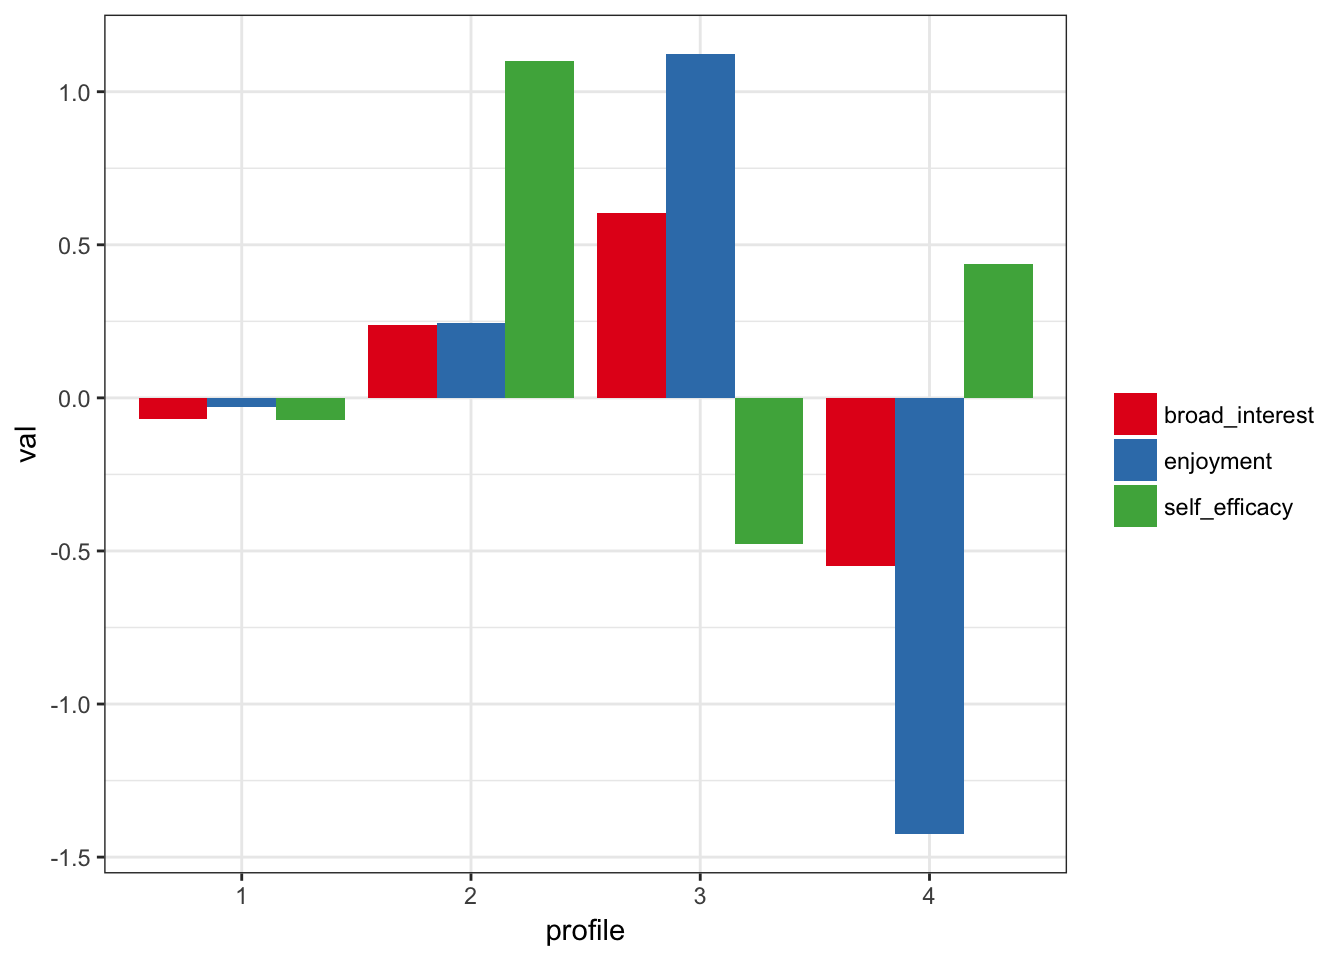
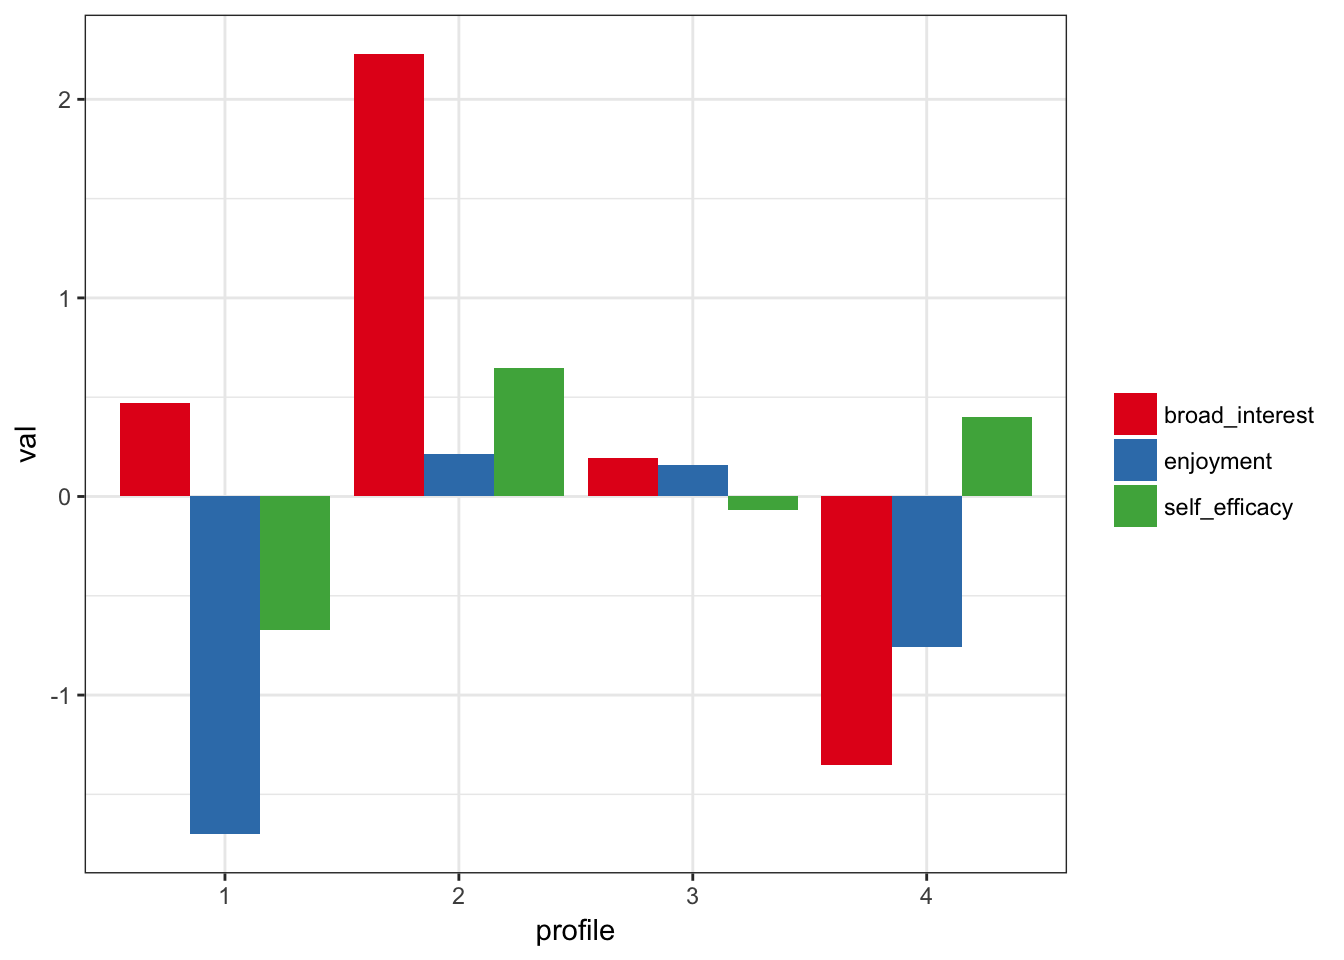
update vignette

diff --git a/docs/articles/Introduction_to_tidyLPA.html b/docs/articles/Introduction_to_tidyLPA.html
@@ -103,65 +103,65 @@ d &lt;-<span class="st"> </span>pisaUSA15
 d &lt;-<span class="st"> </span><span class="kw">sample_n</span>(pisaUSA15, <span class="dv">500</span>)
 <span class="kw"><a href="../reference/create_profiles_lpa.html">create_profiles_lpa</a></span>(d, broad_interest, enjoyment, self_efficacy, <span class="dt">n_profiles =</span> <span class="dv">4</span>, <span class="dt">model =</span> <span class="dv">2</span>)
 <span class="co">#&gt; Fit varying means, equal variances and covariances (Model 2) model with 4 profiles.</span>
-<span class="co">#&gt; AIC is 2841</span>
-<span class="co">#&gt; BIC is 2928.207</span>
-<span class="co">#&gt; ICL is 3181.227</span>
-<span class="co">#&gt; Entropy is 0.78216</span>
-<span class="co">#&gt; # A tibble: 470 x 5</span>
+<span class="co">#&gt; AIC is 2773.575</span>
+<span class="co">#&gt; BIC is 2860.603</span>
+<span class="co">#&gt; ICL is 2925.995</span>
+<span class="co">#&gt; Entropy is 0.93932</span>
+<span class="co">#&gt; # A tibble: 466 x 5</span>
 <span class="co">#&gt;    broad_interest enjoyment self_efficacy profile posterior_prob</span>
 <span class="co">#&gt;             &lt;dbl&gt;     &lt;dbl&gt;         &lt;dbl&gt;   &lt;dbl&gt;          &lt;dbl&gt;</span>
-<span class="co">#&gt;  1            2.8       3.0      2.250000       1        0.69042</span>
-<span class="co">#&gt;  2            1.8       3.2      2.857143       2        0.41395</span>
-<span class="co">#&gt;  3            3.2       3.4      2.000000       1        0.43775</span>
-<span class="co">#&gt;  4            3.0       3.0      1.750000       1        0.80829</span>
-<span class="co">#&gt;  5            3.0       3.0      2.000000       1        0.75569</span>
-<span class="co">#&gt;  6            3.2       4.0      1.750000       3        0.98540</span>
-<span class="co">#&gt;  7            4.0       3.0      2.000000       1        0.73260</span>
-<span class="co">#&gt;  8            3.0       2.4      1.750000       1        0.89808</span>
-<span class="co">#&gt;  9            3.8       3.0      2.125000       1        0.70047</span>
-<span class="co">#&gt; 10            3.4       3.4      1.375000       1        0.46678</span>
-<span class="co">#&gt; # ... with 460 more rows</span></code></pre></div>
+<span class="co">#&gt;  1            3.2       2.8      1.000000       3        0.99538</span>
+<span class="co">#&gt;  2            2.8       3.0      1.714286       3        0.99072</span>
+<span class="co">#&gt;  3            3.6       4.0      1.375000       3        0.99989</span>
+<span class="co">#&gt;  4            3.0       2.8      2.000000       3        0.99661</span>
+<span class="co">#&gt;  5            2.8       3.0      2.250000       3        0.99356</span>
+<span class="co">#&gt;  6            2.4       3.0      2.125000       3        0.95161</span>
+<span class="co">#&gt;  7            3.6       2.4      2.000000       3        0.99066</span>
+<span class="co">#&gt;  8            2.6       2.0      2.500000       3        0.96862</span>
+<span class="co">#&gt;  9            4.0       3.4      1.500000       3        0.99823</span>
+<span class="co">#&gt; 10            3.2       3.2      3.000000       3        0.99925</span>
+<span class="co">#&gt; # ... with 456 more rows</span></code></pre></div>
 <p>**Note that if you get the warning “Some profiles are associated with no assignments. Interpret this solution with caution and consider other models”, then this is a sign that a simpler model (with fewer profiles) likely fits better.</p>
 <p>You can see the output is simply the same <code>tibble</code> that is input as the first function to <code>create_profiles_LPA</code>, but modified so that the classification and posterior probability of the classification are added (and incomplete cases with respect to the variables used to estimate the profiles removed).</p>
 <p>We can then plot this output using the <code><a href="../reference/plot_profiles_lpa.html">plot_profiles_lpa()</a></code> function and the pipe (<code>%&gt;%</code>) from the <code>dplyr</code> package:</p>
 <div class="sourceCode"><pre class="sourceCode r"><code class="sourceCode r"><span class="kw"><a href="../reference/create_profiles_lpa.html">create_profiles_lpa</a></span>(d, broad_interest, enjoyment, self_efficacy, <span class="dt">n_profiles =</span> <span class="dv">4</span>, <span class="dt">model =</span> <span class="dv">2</span>) <span class="op">%&gt;%</span><span class="st"> </span>
 <span class="st">    </span><span class="kw"><a href="../reference/plot_profiles_lpa.html">plot_profiles_lpa</a></span>()
 <span class="co">#&gt; Fit varying means, equal variances and covariances (Model 2) model with 4 profiles.</span>
-<span class="co">#&gt; AIC is 2841</span>
-<span class="co">#&gt; BIC is 2928.207</span>
-<span class="co">#&gt; ICL is 3181.227</span>
-<span class="co">#&gt; Entropy is 0.78216</span></code></pre></div>
+<span class="co">#&gt; AIC is 2773.575</span>
+<span class="co">#&gt; BIC is 2860.603</span>
+<span class="co">#&gt; ICL is 2925.995</span>
+<span class="co">#&gt; Entropy is 0.93932</span></code></pre></div>
 <p><img src="Introduction_to_tidyLPA_files/figure-html/unnamed-chunk-6-1.png" width="672"></p>
 <p>Below is identical to the two lines of code above, except that instead of using the pipe, we save the output the object <code>m3</code>, and then call the <code><a href="../reference/plot_profiles_lpa.html">plot_profiles_lpa()</a></code> function on the output that it points to.</p>
 <div class="sourceCode"><pre class="sourceCode r"><code class="sourceCode r">m3 &lt;-<span class="st"> </span><span class="kw"><a href="../reference/create_profiles_lpa.html">create_profiles_lpa</a></span>(d, broad_interest, enjoyment, self_efficacy, <span class="dt">n_profiles =</span> <span class="dv">4</span>, <span class="dt">model =</span> <span class="dv">2</span>)
 <span class="co">#&gt; Fit varying means, equal variances and covariances (Model 2) model with 4 profiles.</span>
-<span class="co">#&gt; AIC is 2841</span>
-<span class="co">#&gt; BIC is 2928.207</span>
-<span class="co">#&gt; ICL is 3181.227</span>
-<span class="co">#&gt; Entropy is 0.78216</span>
+<span class="co">#&gt; AIC is 2773.575</span>
+<span class="co">#&gt; BIC is 2860.603</span>
+<span class="co">#&gt; ICL is 2925.995</span>
+<span class="co">#&gt; Entropy is 0.93932</span>
 <span class="kw"><a href="../reference/plot_profiles_lpa.html">plot_profiles_lpa</a></span>(m3, <span class="dt">to_center =</span> <span class="ot">TRUE</span>)</code></pre></div>
 <p><img src="Introduction_to_tidyLPA_files/figure-html/unnamed-chunk-7-1.png" width="672"></p>
 <p>We can also return all of the data. This returns a <code>tibble</code> with all of the variables in the original data, in this case <code>d</code>, so that subsequent analyses using variables that are not used to create the profile can be easily carried out.</p>
 <div class="sourceCode"><pre class="sourceCode r"><code class="sourceCode r"><span class="kw"><a href="../reference/create_profiles_lpa.html">create_profiles_lpa</a></span>(d, broad_interest, enjoyment, self_efficacy, <span class="dt">n_profiles =</span> <span class="dv">4</span>, <span class="dt">model =</span> <span class="dv">2</span>, <span class="dt">return_orig_df =</span> T)
 <span class="co">#&gt; Fit varying means, equal variances and covariances (Model 2) model with 4 profiles.</span>
-<span class="co">#&gt; AIC is 2841</span>
-<span class="co">#&gt; BIC is 2928.207</span>
-<span class="co">#&gt; ICL is 3181.227</span>
-<span class="co">#&gt; Entropy is 0.78216</span>
-<span class="co">#&gt; # A tibble: 470 x 6</span>
+<span class="co">#&gt; AIC is 2773.575</span>
+<span class="co">#&gt; BIC is 2860.603</span>
+<span class="co">#&gt; ICL is 2925.995</span>
+<span class="co">#&gt; Entropy is 0.93932</span>
+<span class="co">#&gt; # A tibble: 466 x 6</span>
 <span class="co">#&gt;    broad_interest enjoyment instrumental_mot self_efficacy profile</span>
 <span class="co">#&gt;             &lt;dbl&gt;     &lt;dbl&gt;            &lt;dbl&gt;         &lt;dbl&gt;   &lt;dbl&gt;</span>
-<span class="co">#&gt;  1            2.8       3.0             1.25      2.250000       1</span>
-<span class="co">#&gt;  2            1.8       3.2             2.00      2.857143       2</span>
-<span class="co">#&gt;  3            3.2       3.4             1.75      2.000000       1</span>
-<span class="co">#&gt;  4            3.0       3.0             1.50      1.750000       1</span>
-<span class="co">#&gt;  5            3.0       3.0             2.00      2.000000       1</span>
-<span class="co">#&gt;  6            3.2       4.0             1.00      1.750000       3</span>
-<span class="co">#&gt;  7            4.0       3.0             3.00      2.000000       1</span>
-<span class="co">#&gt;  8            3.0       2.4             2.00      1.750000       1</span>
-<span class="co">#&gt;  9            3.8       3.0             1.75      2.125000       1</span>
-<span class="co">#&gt; 10            3.4       3.4             2.25      1.375000       1</span>
-<span class="co">#&gt; # ... with 460 more rows, and 1 more variables: posterior_prob &lt;dbl&gt;</span></code></pre></div>
+<span class="co">#&gt;  1            3.2       2.8             1.00      1.000000       3</span>
+<span class="co">#&gt;  2            2.8       3.0             1.00      1.714286       3</span>
+<span class="co">#&gt;  3            3.6       4.0             1.00      1.375000       3</span>
+<span class="co">#&gt;  4            3.0       2.8             2.75      2.000000       3</span>
+<span class="co">#&gt;  5            2.8       3.0             2.00      2.250000       3</span>
+<span class="co">#&gt;  6            2.4       3.0             1.25      2.125000       3</span>
+<span class="co">#&gt;  7            3.6       2.4             2.75      2.000000       3</span>
+<span class="co">#&gt;  8            2.6       2.0             2.00      2.500000       3</span>
+<span class="co">#&gt;  9            4.0       3.4             2.00      1.500000       3</span>
+<span class="co">#&gt; 10            3.2       3.2             2.50      3.000000       3</span>
+<span class="co">#&gt; # ... with 456 more rows, and 1 more variables: posterior_prob &lt;dbl&gt;</span></code></pre></div>
 </div>
 <div id="an-object-oriented-approach" class="section level3">
 <h3 class="hasAnchor">
@@ -171,10 +171,10 @@ d &lt;-<span class="st"> </span><span class="kw">sample_n</span>(pisaUSA15, <spa
 d &lt;-<span class="st"> </span><span class="kw">sample_n</span>(pisaUSA15, <span class="dv">500</span>)
 m3_mclust &lt;-<span class="st"> </span><span class="kw"><a href="../reference/create_profiles_lpa.html">create_profiles_lpa</a></span>(d, broad_interest, enjoyment, self_efficacy, <span class="dt">n_profiles =</span> <span class="dv">2</span>, <span class="dt">model =</span> <span class="dv">2</span>, <span class="dt">to_return =</span> <span class="st">"mclust"</span>)
 <span class="co">#&gt; Fit varying means, equal variances and covariances (Model 2) model with 2 profiles.</span>
-<span class="co">#&gt; AIC is 2858.999</span>
-<span class="co">#&gt; BIC is 2912.929</span>
-<span class="co">#&gt; ICL is 3004.12</span>
-<span class="co">#&gt; Entropy is 0.91835</span></code></pre></div>
+<span class="co">#&gt; AIC is 2928.771</span>
+<span class="co">#&gt; BIC is 2982.701</span>
+<span class="co">#&gt; ICL is 3430.369</span>
+<span class="co">#&gt; Entropy is 0.6261</span></code></pre></div>
 <p>Any of the functions from the <a href="http://www.stat.washington.edu/mclust/">mclust package</a> that work with this type of output will work on this output; the only difference is that the model is specified in this package (with the <code><a href="../reference/create_profiles_lpa.html">create_profiles_lpa()</a></code> function) instead of the <code>Mclust()</code> function from the <code>mclust package</code>.</p>
 </div>
 </div>
@@ -228,7 +228,7 @@ m3_mclust &lt;-<span class="st"> </span><span class="kw"><a href="../reference/c
 <div id="bootstrapped-likelihood-ratio-test" class="section level1">
 <h1 class="hasAnchor">
 <a href="#bootstrapped-likelihood-ratio-test" class="anchor"></a>Bootstrapped likelihood-ratio test</h1>
-<p>To determine the number of profies for a specified model (i.e., models <code>1</code>-<code>3</code> described above, we can carry out a bootstrapped likelihood-ratio test. Note that the code is shown but run because it can take substantial time, even for a small dataset.</p>
+<p>To determine the number of profies for a specified model (i.e., models <code>1</code>-<code>4</code> described above, we can carry out a bootstrapped likelihood-ratio test. Note that the code is shown but run because it can take substantial time, even for a small dataset.</p>
 <div class="sourceCode"><pre class="sourceCode r"><code class="sourceCode r"><span class="kw"><a href="../reference/bootstrap_lrt.html">bootstrap_lrt</a></span>(d, broad_interest, enjoyment, self_efficacy, <span class="dt">model =</span> <span class="dv">3</span>)</code></pre></div>
 </div>
 <div id="notes" class="section level1">
